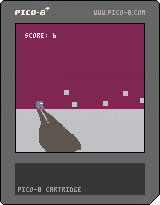
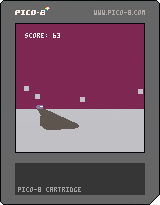
Block balancing

diff --git a/README.md b/README.md
@@ -6,6 +6,10 @@ A small Pico-8 game, based on an android game I coded in university during a 48h
 > Note to me: Cardridge picture can be taken by pressing F2 while playing
 ## Changelog
 
+### 2024-01-20
+
+- Balanced block generation
+
 ### 2024-01-19
 - Added shadow animation
 - Added shadow
